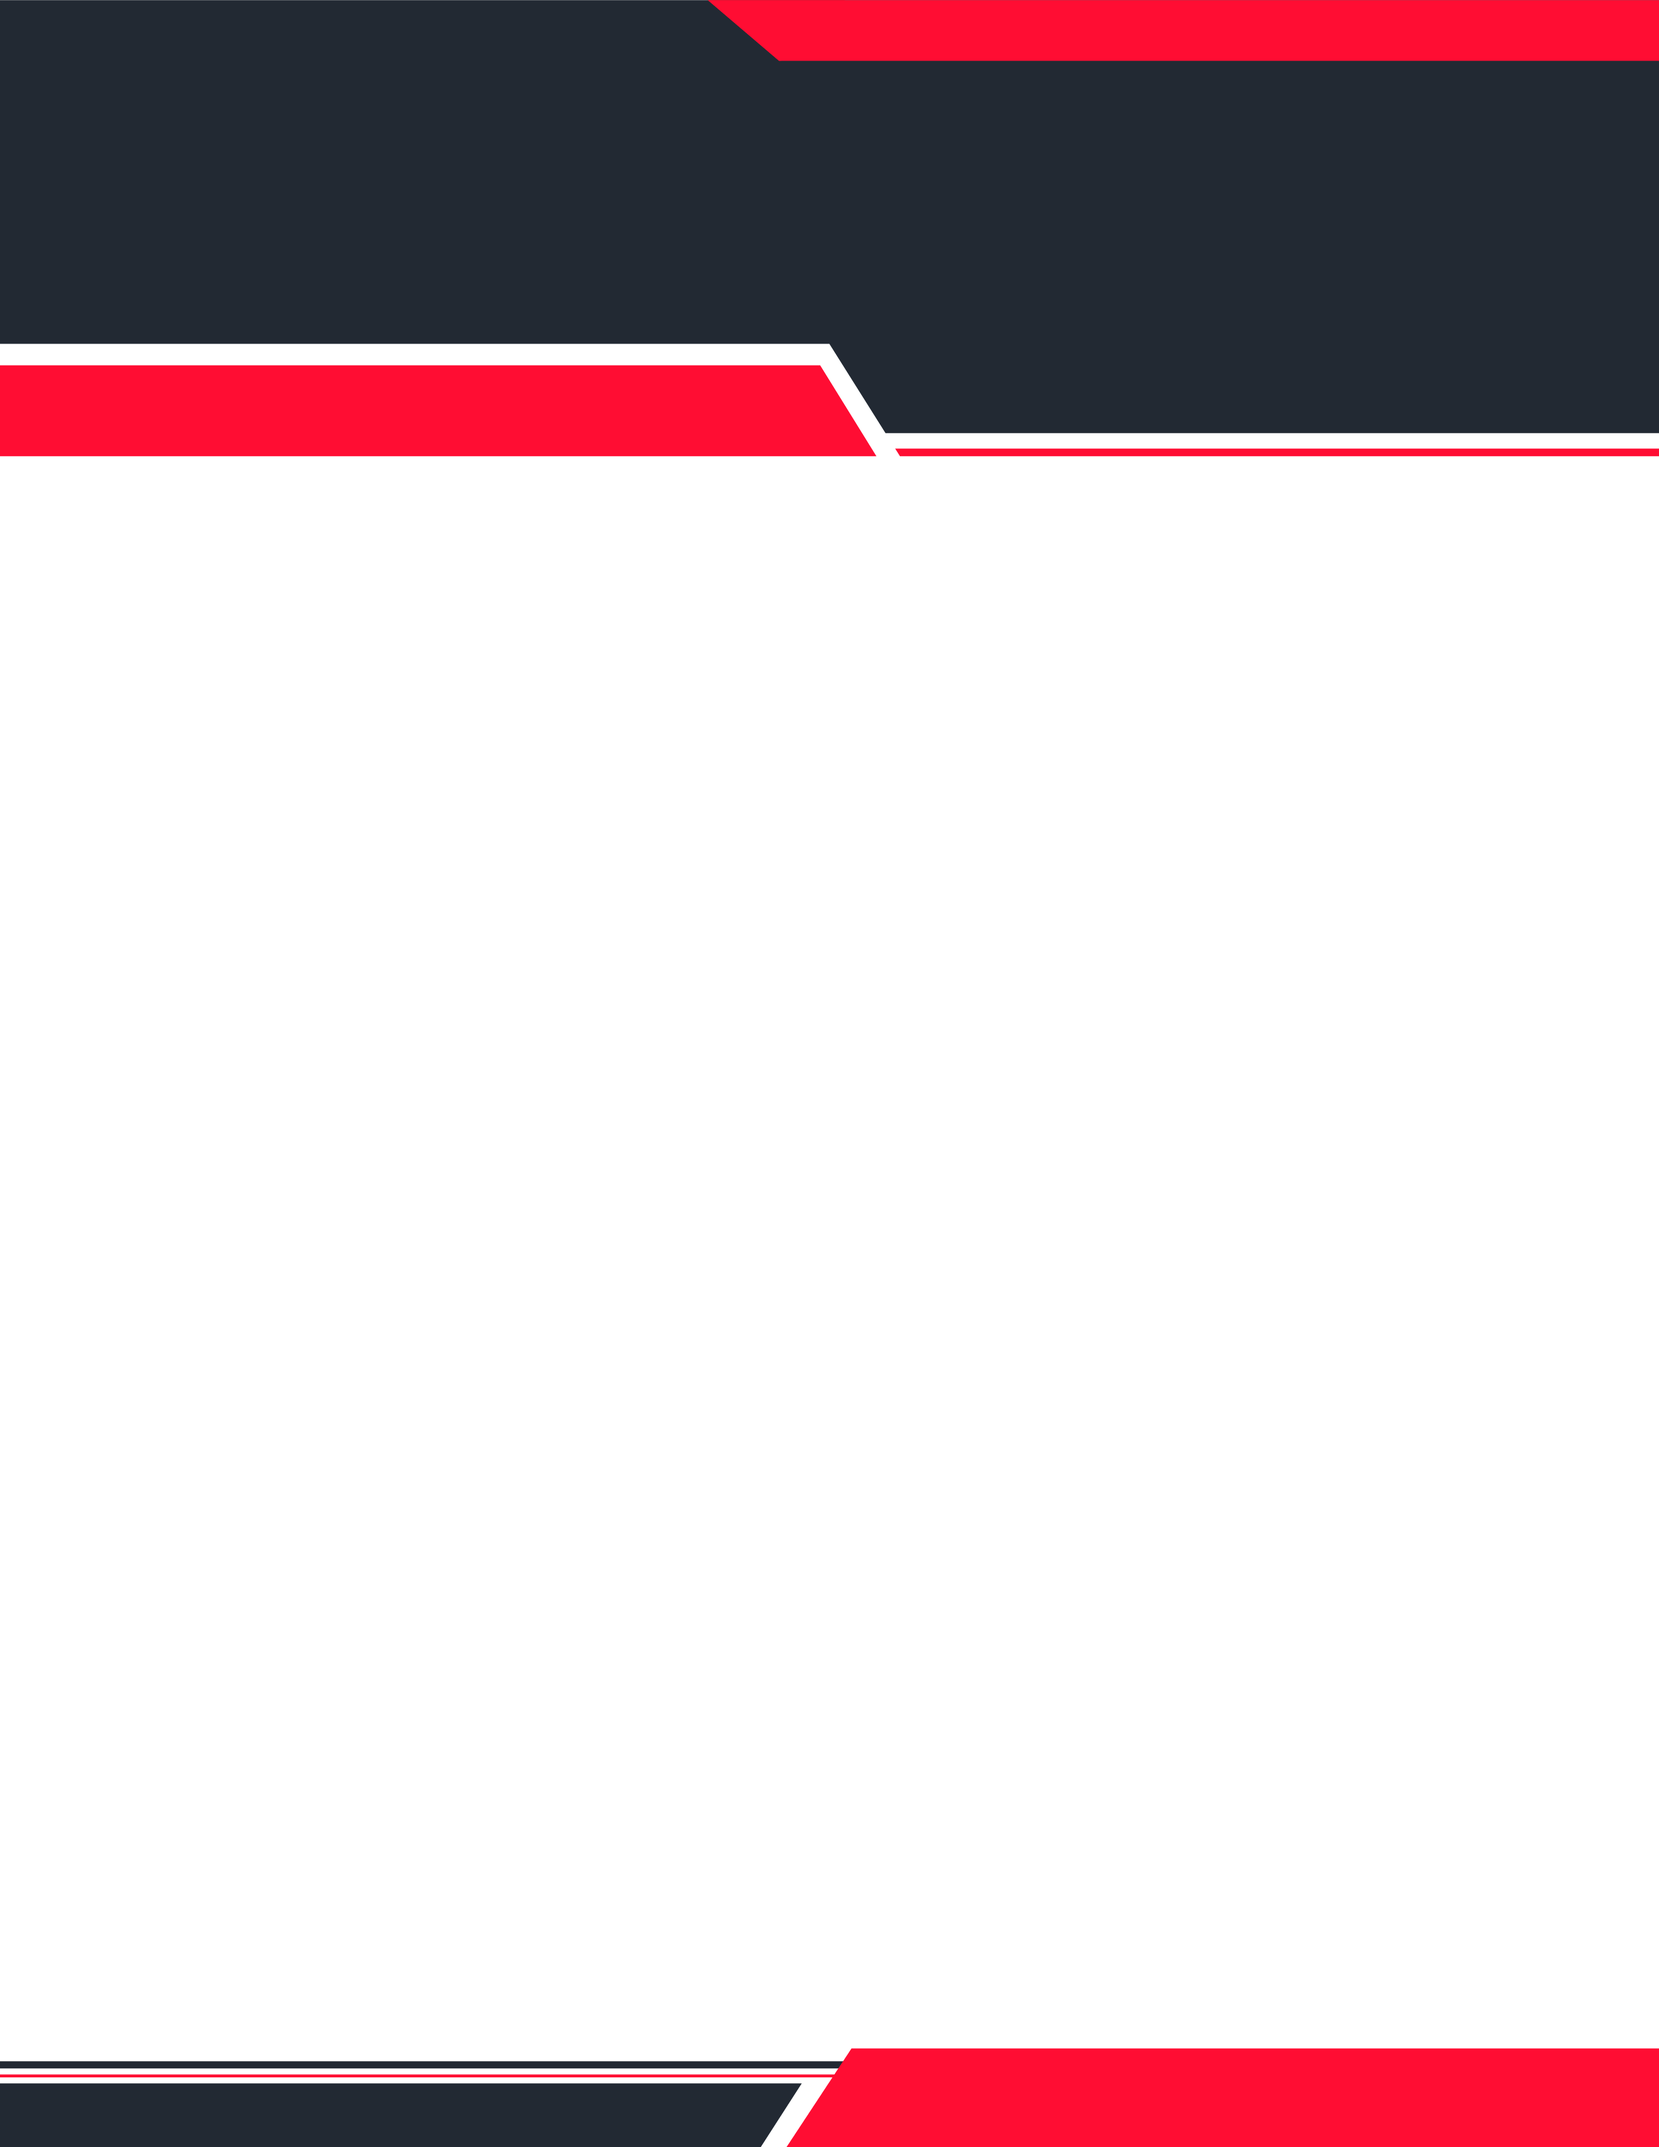
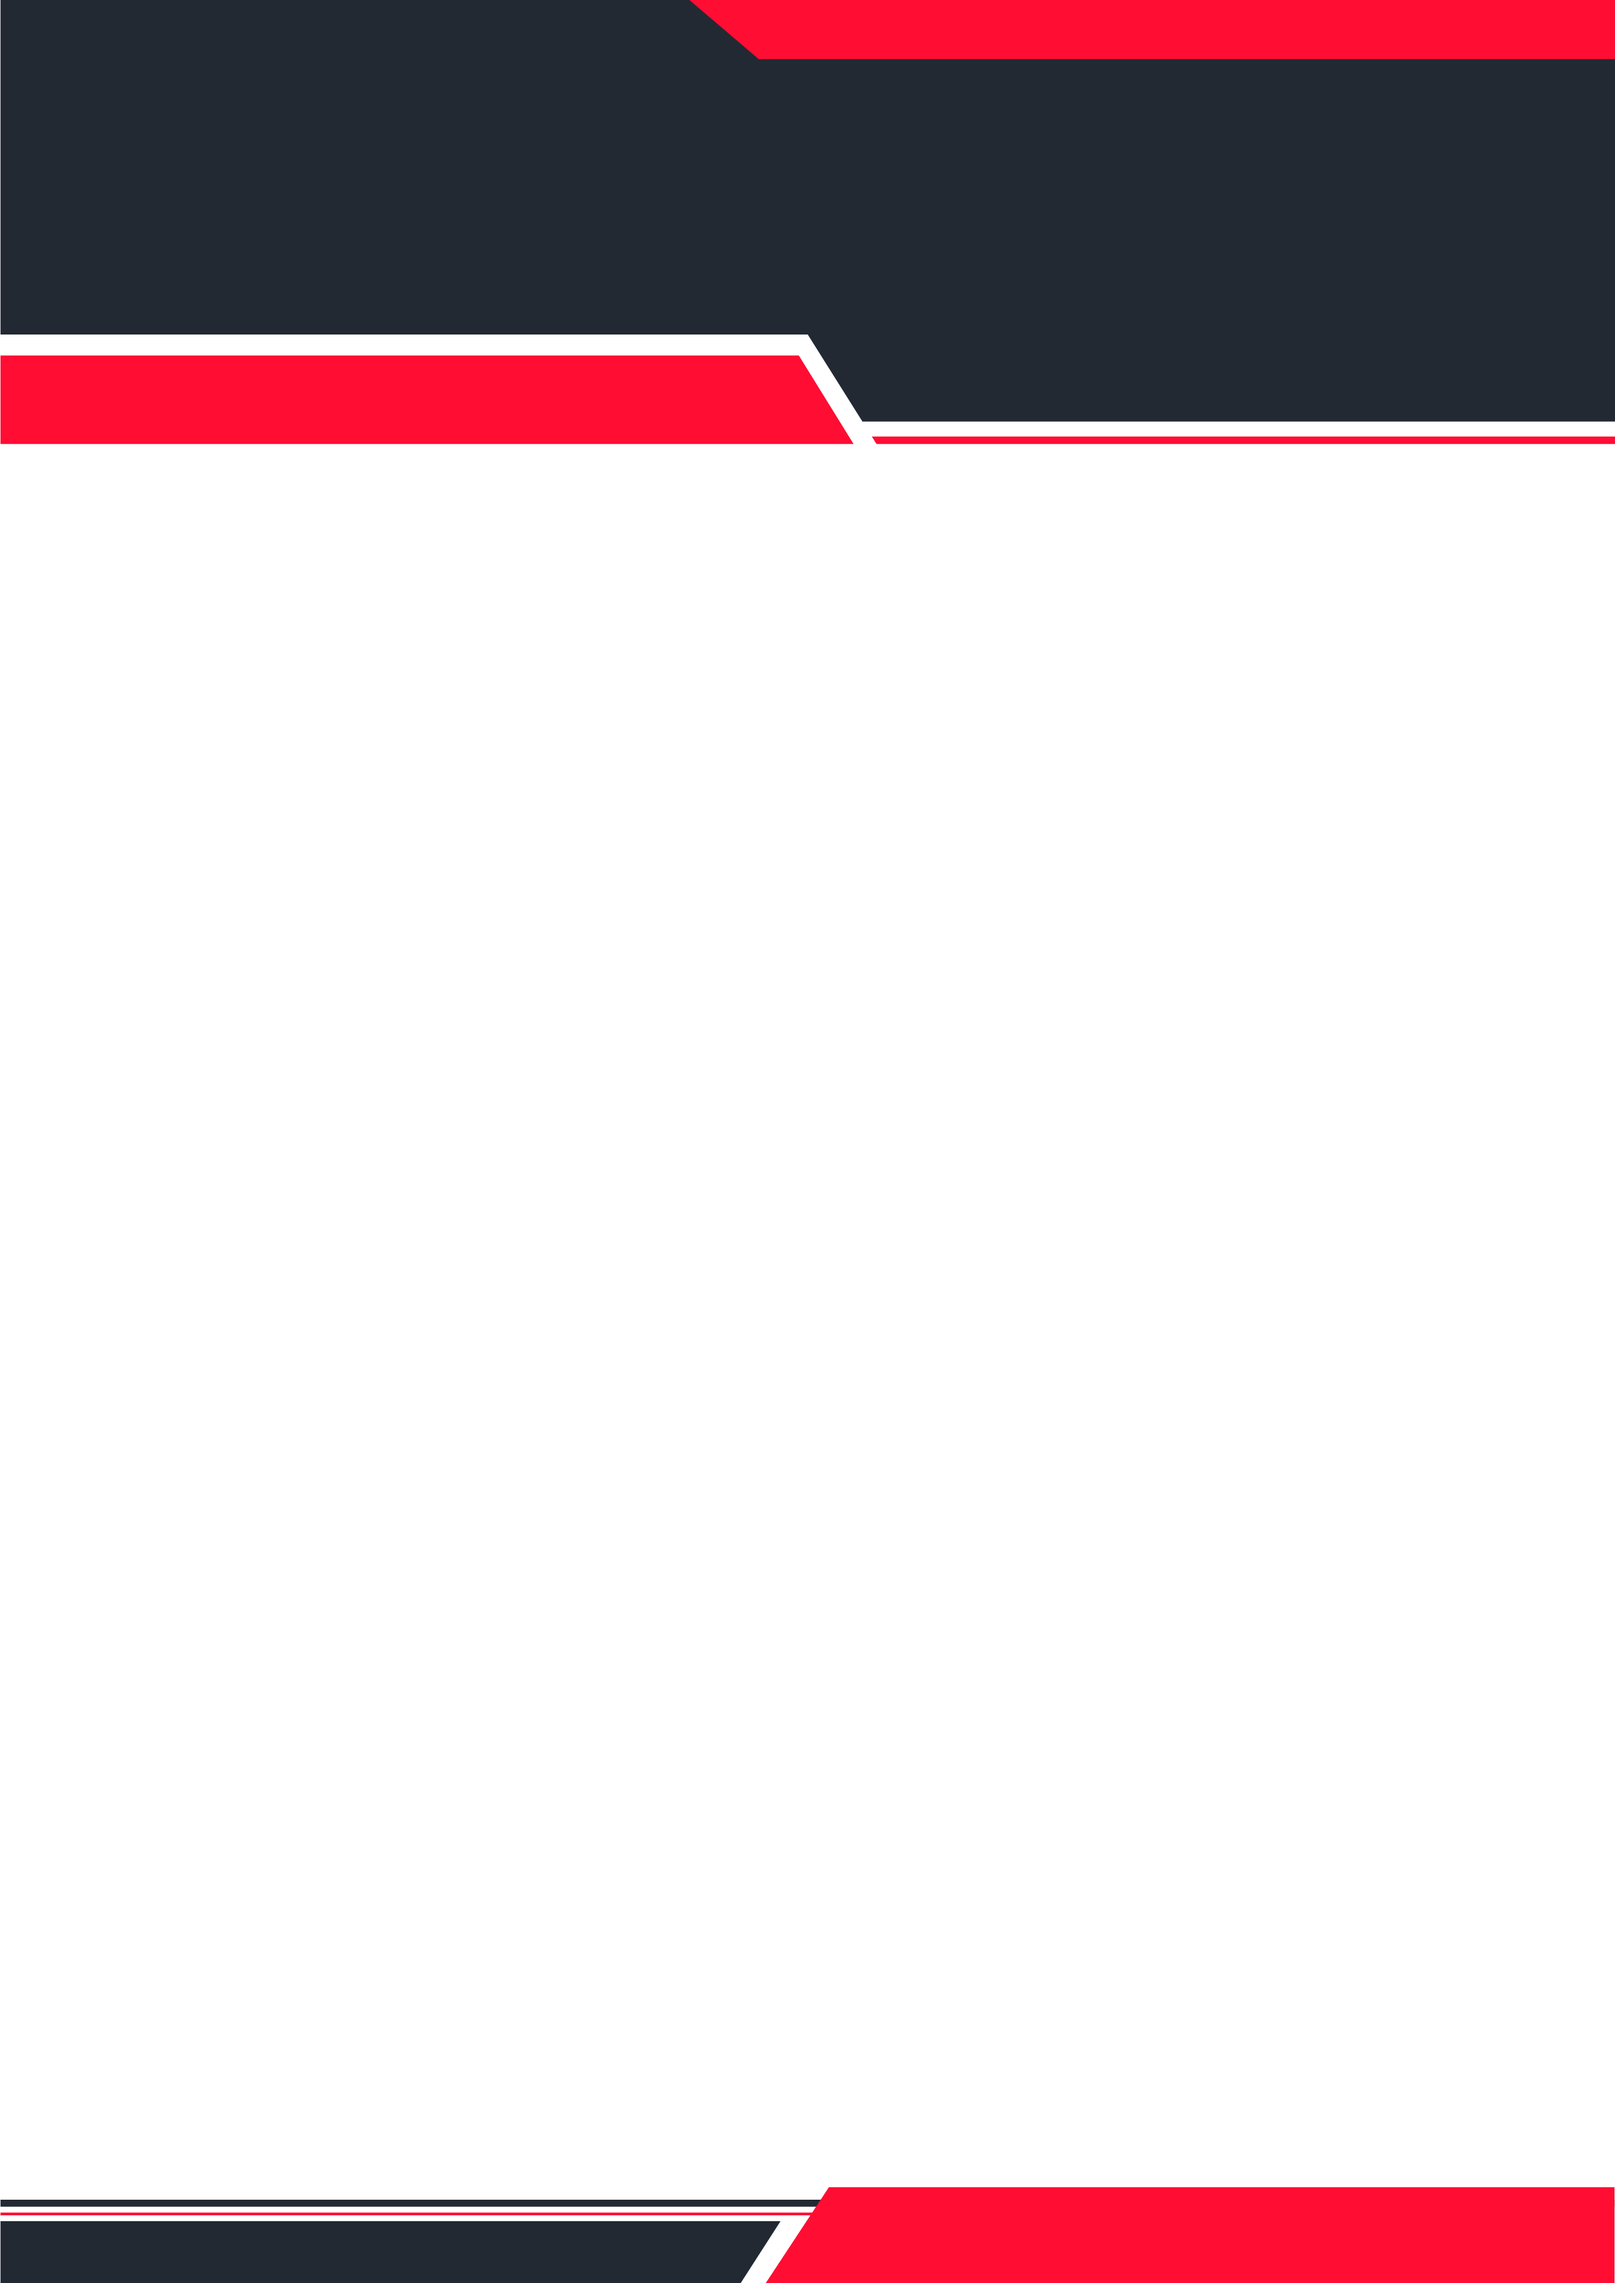
A4 Invoice template

Changed region(s): [[0.0, 0.1248, 1.0, 0.2185], [0.0, 0.9364, 1.0, 0.9988]]

diff --git a/invoice/templates/invoice/pdf-template.html b/invoice/templates/invoice/pdf-template.html
@@ -6,7 +6,7 @@
 <style>
 
 @page {
-    size: letter portrait;
+    size: A4 portrait;
     background-image:url({{base_url}}/static/assets/img/document-background.png);
     @frame parent_frame {           /* Static frame */
         -pdf-frame-content: document_header_backgound;
@@ -47,11 +47,11 @@
     }
     @frame line { 
         -pdf-frame-content: line; 
-        left: 50pt; width: 512pt; top: 680pt; height: 5pt;
+        left: 50pt; width: 512pt; top: 735pt; height: 5pt;
     }
     @frame footer_frame {           /* Static frame */
         -pdf-frame-content: footer_content;
-        left: 50pt; width: 512pt; top: 700pt; height: 80pt;
+        left: 50pt; width: 512pt; top: 755pt; height: 80pt;
     }
 }
     body{
@@ -127,7 +127,7 @@
     </div>
     <div id="payment_info">
                 <strong style="color:#ff0d33;">PAYMENT METHOD:</strong><br>
-                <strong style="color:#333333;">Account Number:</strong><b> 22110086142</b><br>
+                <strong style="color:#333333;">Account Number:</strong><b style="font-size:16px;"> 22110086142</b><br>
                 <strong style="color:#333333;">Account Name:</strong><b> JAYBLA GROUP</b><br>
                 <strong style="color:#333333;">Branch Name:</strong><b> NMB BANK</b>
     </div>

diff --git a/quotation/templates/quotation/quotation-pdf-template.html b/quotation/templates/quotation/quotation-pdf-template.html
@@ -6,7 +6,7 @@
 <style>
 
 @page {
-    size: letter portrait;
+    size: A4 portrait;
     background-image:url({{base_url}}/static/assets/img/document-background.png);
     @frame header1_frame {           /* Static frame */
         -pdf-frame-content: logo;
@@ -34,7 +34,7 @@
     }
     @frame footer_frame {           /* Static frame */
         -pdf-frame-content: terms_and_conditons;
-        left: 50pt; width: 400pt; top: 620pt; height: 100pt;
+        left: 50pt; width: 400pt; top: 680pt; height: 100pt;
     }
     @frame header0_frame {           /* Static frame */
         -pdf-frame-content: header_content_sub;
@@ -46,11 +46,11 @@
     }
     @frame line { 
         -pdf-frame-content: line; 
-        left: 50pt; width: 512pt; top: 680pt; height: 5pt;
+        left: 50pt; width: 512pt; top: 735pt; height: 5pt;
     }
     @frame footer_frame {           /* Static frame */
         -pdf-frame-content: footer_content;
-        left: 50pt; width: 512pt; top: 700pt; height: 80pt;
+        left: 50pt; width: 512pt; top: 755pt; height: 80pt;
     }
 }
     body{

diff --git a/quotation/templates/quotation/quotation-list.html b/quotation/templates/quotation/quotation-list.html
@@ -59,7 +59,7 @@
                                 <a class="delete-quotation bs-modal mr-2" data-form-url="{% url 'quotation:delete_quotation' quotation.id %}">
                                     <i class="fa fa-trash text-danger" style="font-size: 22px;cursor:pointer;"></i>
                                 </a>
-                                <a href="{% url 'quotation:download-quotation' quotation.id %}" style="color:green;font-size: 22px;" download><i class="fa fa-download" aria-hidden="true"></i></a>   
+                                <a href="{% url 'quotation:download-quotation' quotation.id %}" style="color:green;font-size: 22px;"><i class="fa fa-download" aria-hidden="true"></i></a>   
                             </td>
                         </tr>
                     </tbody>

diff --git a/quotation/models.py b/quotation/models.py
@@ -5,7 +5,7 @@ from customer.models import Customer
 
 
 class Quotation(models.Model):
-    customer = models.ForeignKey(Customer, on_delete=models.CASCADE,null=True)
+    customer = models.ForeignKey(Customer, on_delete=models.CASCADE)
     date = models.DateField()
     quotation_file = models.FileField(upload_to='quotations/%Y/%m/%d/', blank=True, null=True)
     quote_title = models.TextField(blank=False)

diff --git a/invoice/models.py b/invoice/models.py
@@ -3,7 +3,7 @@ from customer.models import Customer
 
 # Create your models here.
 class Invoice(models.Model):
-    customer = models.ForeignKey(Customer, on_delete=models.CASCADE, null=True)
+    customer = models.ForeignKey(Customer, on_delete=models.CASCADE)
     date = models.DateField()
     status = models.CharField(max_length=10)
     title = models.CharField(max_length=100)
